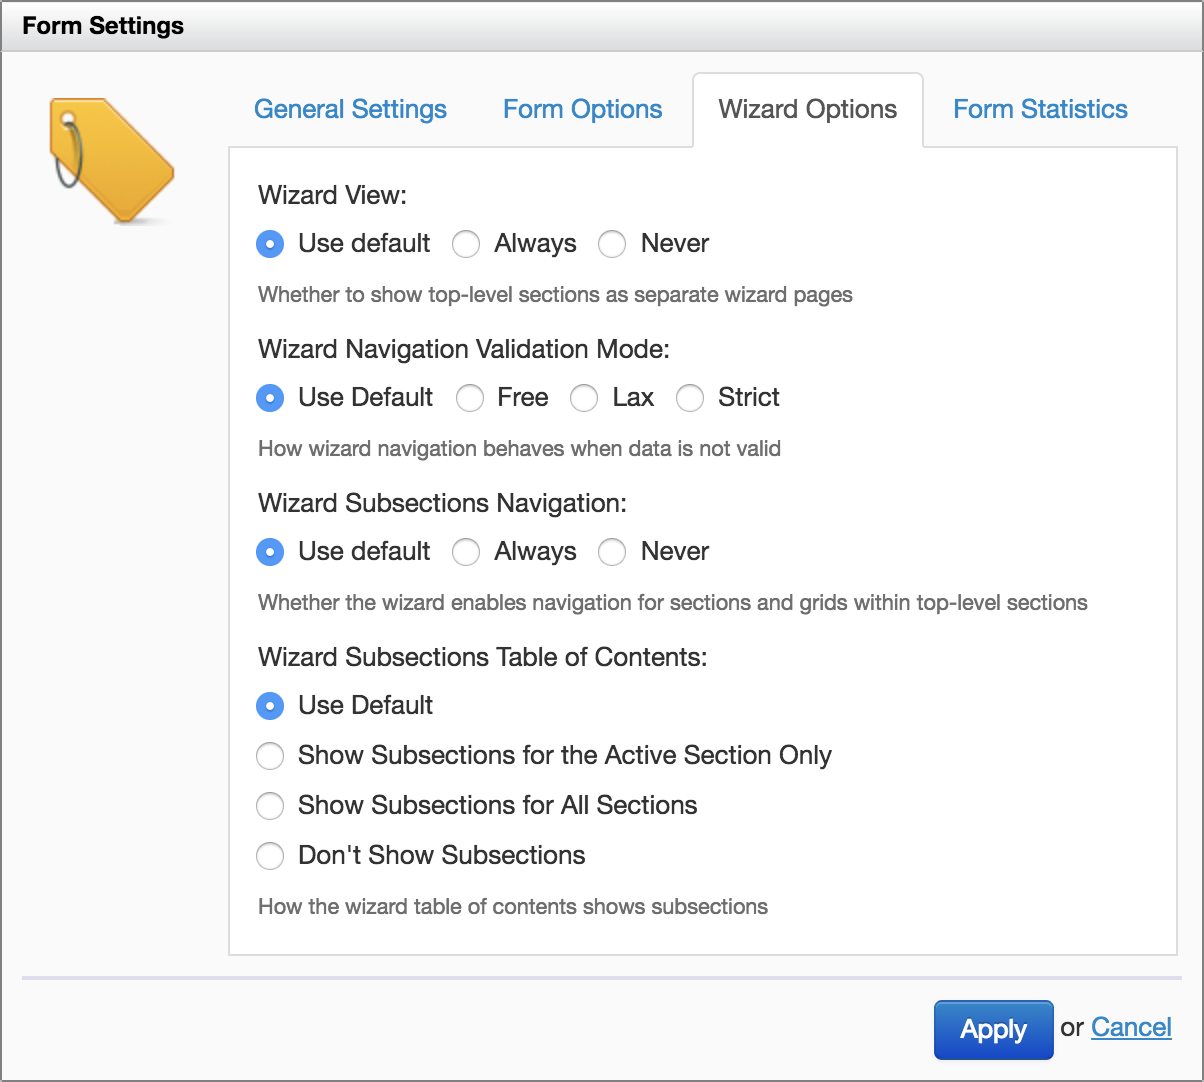
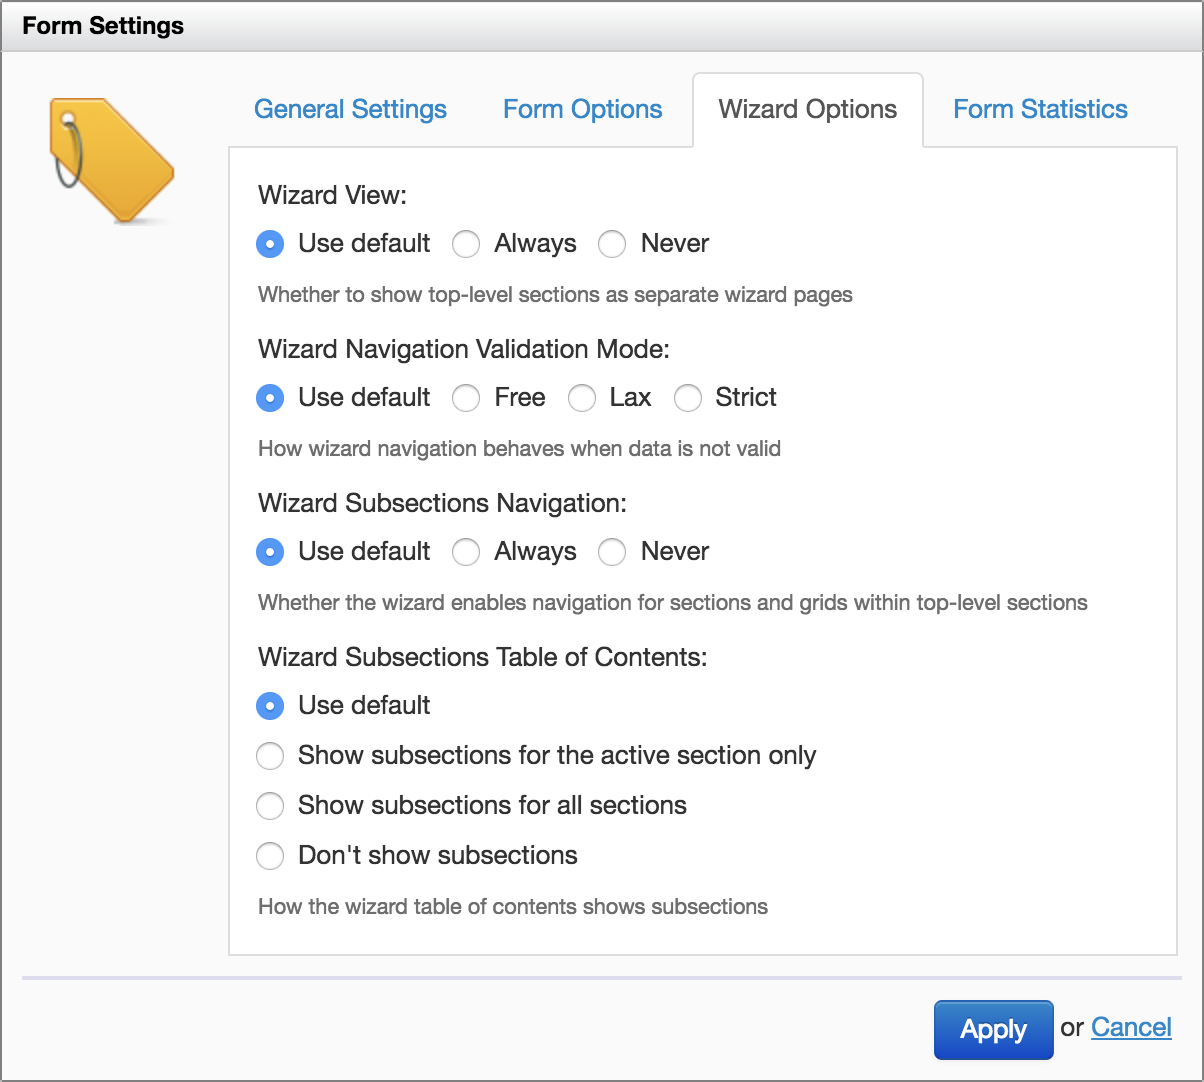
Settings: update screenshots, fixes

diff --git a/form-builder/form-settings.md b/form-builder/form-settings.md
@@ -6,12 +6,12 @@ Some settings apply to the entire form definition. You access these settings wit
 
 ## General Settings
 
-General settings allow you to set:
+General settings allow you to set the following form definition metadata:
 
-- the Application Name
-- the Form Name
-- the form title in the current language
-- the form description in the current language
+- Application name
+- Form name
+- Form title in the current language
+- Form description in the current language
 
 ![General Settings](images/form-settings-general.png)
 
@@ -23,10 +23,9 @@ Form options include options which apply to the entire form definition.
 
 ![Form Options](images/form-settings-options.png)
 
-![Wizard Options](images/form-settings-wizard.png)
-
-- [Singleton Form](../form-runner/advanced/singleton-form.md) 
-
+- Singleton Form
+    - Enable or disable singleton form behavior. 
+    - See [Singleton Form](../form-runner/advanced/singleton-form.md)
 - Maximum Attachment Size per Control
     - [SINCE Orbeon Forms 2017.1]
     - Use Default: use the [`oxf.fr.detail.attachment.max-size` property](../configuration/properties/form-runner-attachments.md#maximum-attachment-size)
@@ -65,6 +64,8 @@ Here is how hints appear depending on the type of control they are associated wi
 ## Wizard Options
 
 [SINCE Orbeon Forms 2018.1] These options are now in a separate tab.
+
+![Wizard Options](images/form-settings-wizard.png)
 
 For details, see [Wizard View](../form-runner/feature/wizard-view.md).
 
